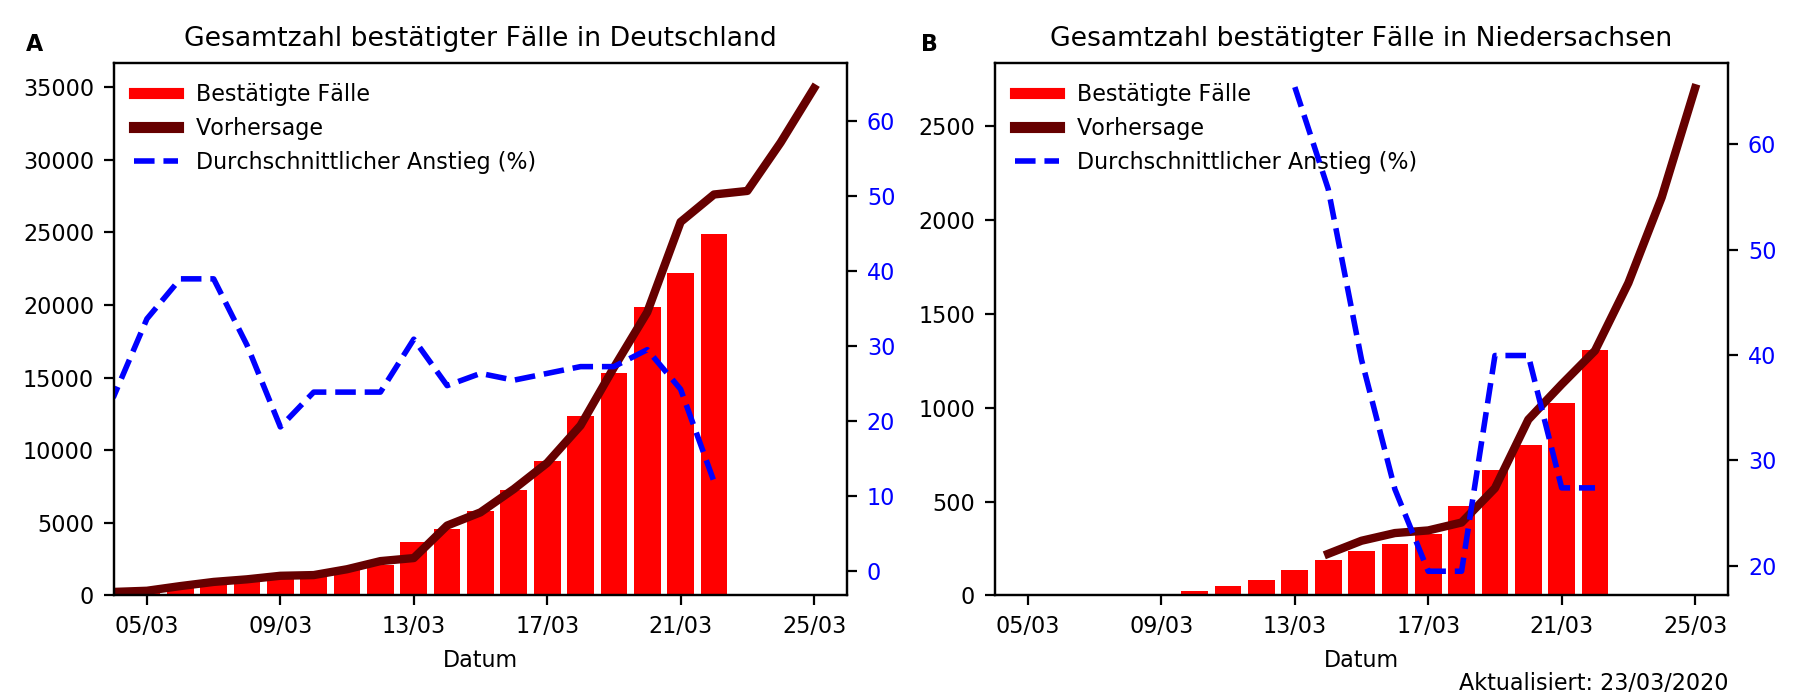
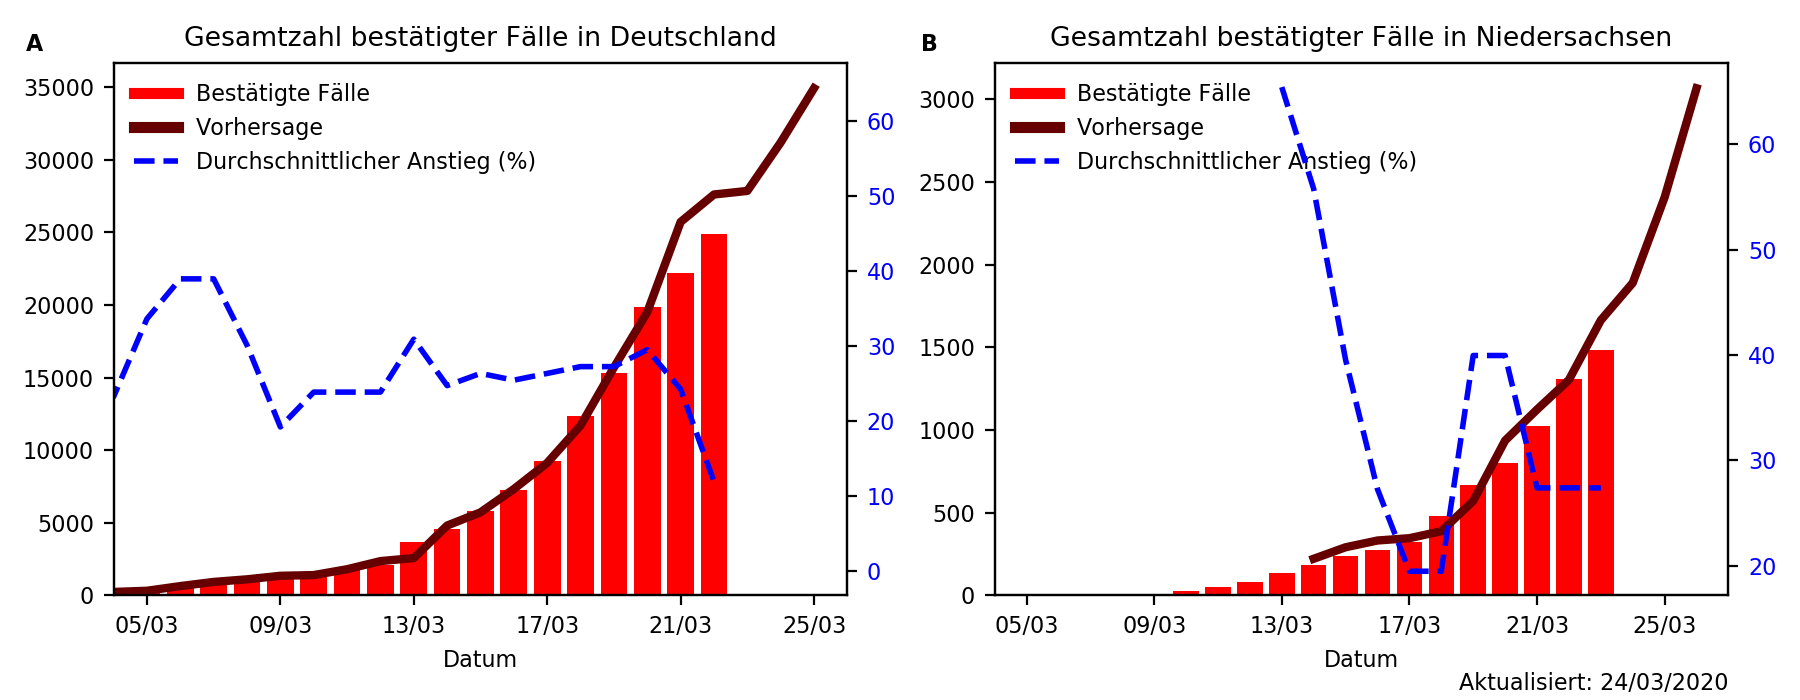
Update  24/03

diff --git a/coronavirus.py b/coronavirus.py
@@ -577,8 +577,9 @@ def download_landkreis(file='data/deutschland_landkreis.csv'):
 
 	#Saves df to file
 
-def download_rki(file):
-	pass
+def download_rki(date):
+	url = 'https://services7.arcgis.com/mOBPykOjAyBO2ZKk/arcgis/rest/services/RKI_COVID19/FeatureServer/0//query?where=Meldedatum%3D%272020-03-21'
+	+ '%27&objectIds=&time=&resultType=standard&outFields=*&returnIdsOnly=false&returnUniqueIdsOnly=false&returnCountOnly=false&returnDistinctValues=false&cacheHint=false&orderByFields=&groupByFieldsForStatistics=&outStatistics=&having=&resultOffset=&resultRecordCount=&sqlFormat=none&f=pjson&token='
 
 #Runs coronavirus.py to update plots
 if __name__ == '__main__':
